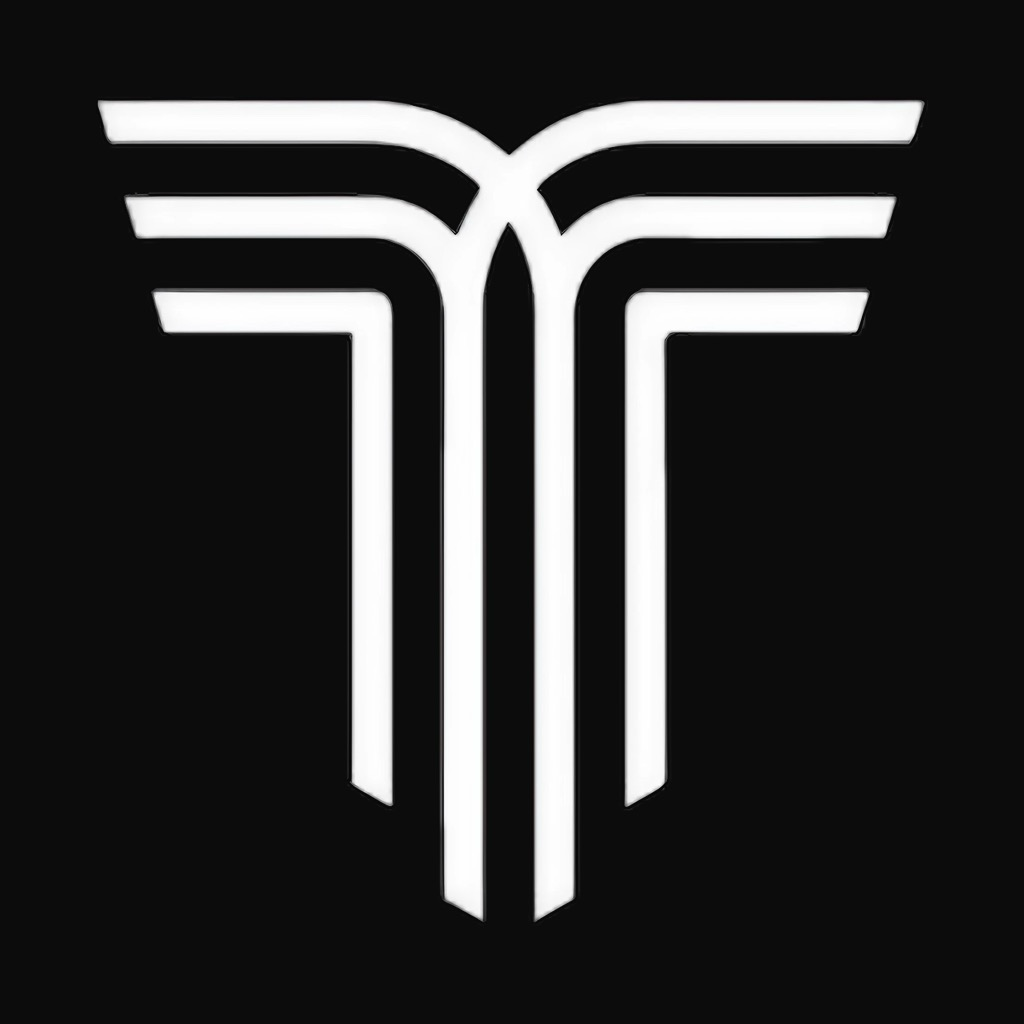
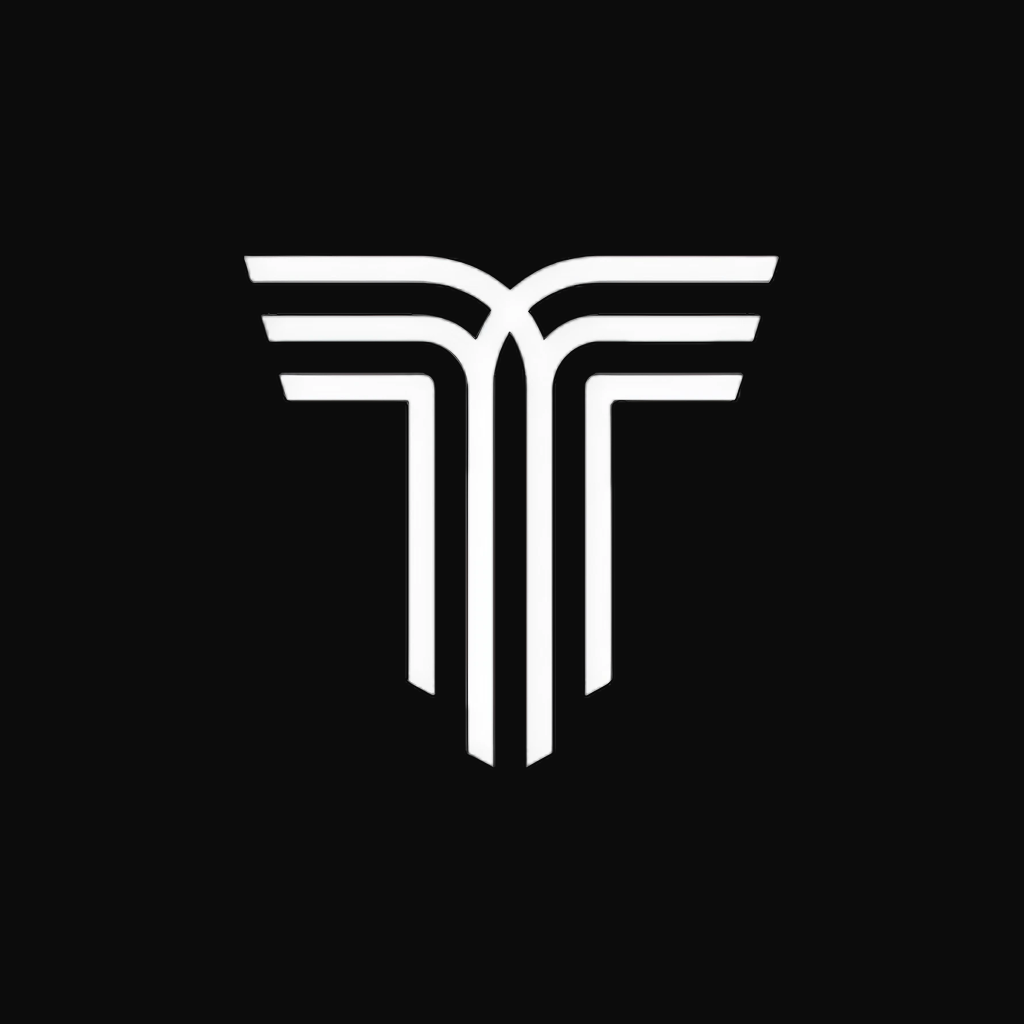
feat(product): implement section view more navigation and refine layout
- Add handleViewMore navigation to category/catalog pages from product sections
- Adjust ProductInfoHeader margins and button width for better layout
- Shorten "Recomendados para ti" to "Recomendados"
- Update app icon

Changed region(s): [[0.0938, 0.0938, 0.9062, 0.9062]]

diff --git a/app/products/[id].tsx b/app/products/[id].tsx
@@ -131,8 +131,15 @@ export default function ProductDetailScreen() {
     }
   };
 
-  const handleViewMore = (_section: string) => {
-    // Navigate to section view
+  const handleViewMore = (section: string) => {
+    if (section === 'Productos Relacionados' && product?.categoryId) {
+      // Navigate to the product's actual category
+      router.push(`/catalog?category=${product.categoryId}`);
+    } else if (section === 'Recomendados') {
+      router.push('/catalog?title=Recomendados&category=recommended');
+    } else if (section === 'Tendencias') {
+      router.push('/catalog?title=Tendencias&category=popular');
+    }
   };
 
   // Loading state

diff --git a/app/products/product.tsx b/app/products/product.tsx
@@ -126,8 +126,15 @@ export default function ProductScreen() {
     }
   };
 
-  const handleViewMore = (_section: string) => {
-    // Navigate to section view
+  const handleViewMore = (section: string) => {
+    if (section === 'Productos Relacionados' && product?.categoryId) {
+      // Navigate to the product's actual category
+      router.push(`/catalog?category=${product.categoryId}`);
+    } else if (section === 'Recomendados') {
+      router.push('/catalog?title=Recomendados&category=recommended');
+    } else if (section === 'Tendencias') {
+      router.push('/catalog?title=Tendencias&category=popular');
+    }
   };
 
   // Loading state

diff --git a/app/_components/store/product/swipeable/ProductInfoHeader.tsx b/app/_components/store/product/swipeable/ProductInfoHeader.tsx
@@ -90,6 +90,7 @@ type Styles = {
 const styles = StyleSheet.create<Styles>({
   container: {
     marginTop: spacing.md,
+    marginHorizontal: spacing.lg,
   },
   infoRow: {
     flexDirection: 'row',
@@ -148,7 +149,6 @@ const styles = StyleSheet.create<Styles>({
     textDecorationLine: 'line-through',
   },
   addToCartButton: {
-    width: '100%',
     height: 48,
     borderRadius: radius.xxl,
     marginTop: spacing.xl,

diff --git a/app/_components/store/product/swipeable/SwipeableEdge.tsx b/app/_components/store/product/swipeable/SwipeableEdge.tsx
@@ -278,7 +278,7 @@ const SwipeableEdge = ({
       )}
       {recommendedProducts.length > 0 && (
         <ProductSections
-          title="Recomendados para ti"
+          title="Recomendados"
           products={recommendedProducts}
           CardComponent={PromotionCard}
           onProductPress={onProductPress}
